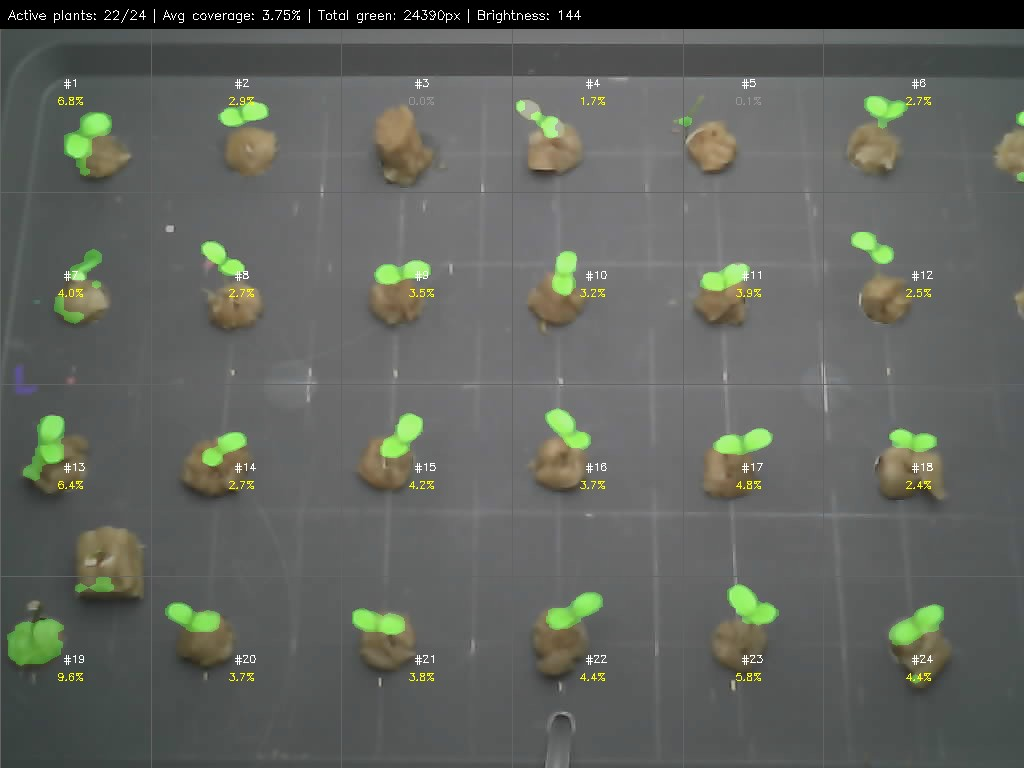
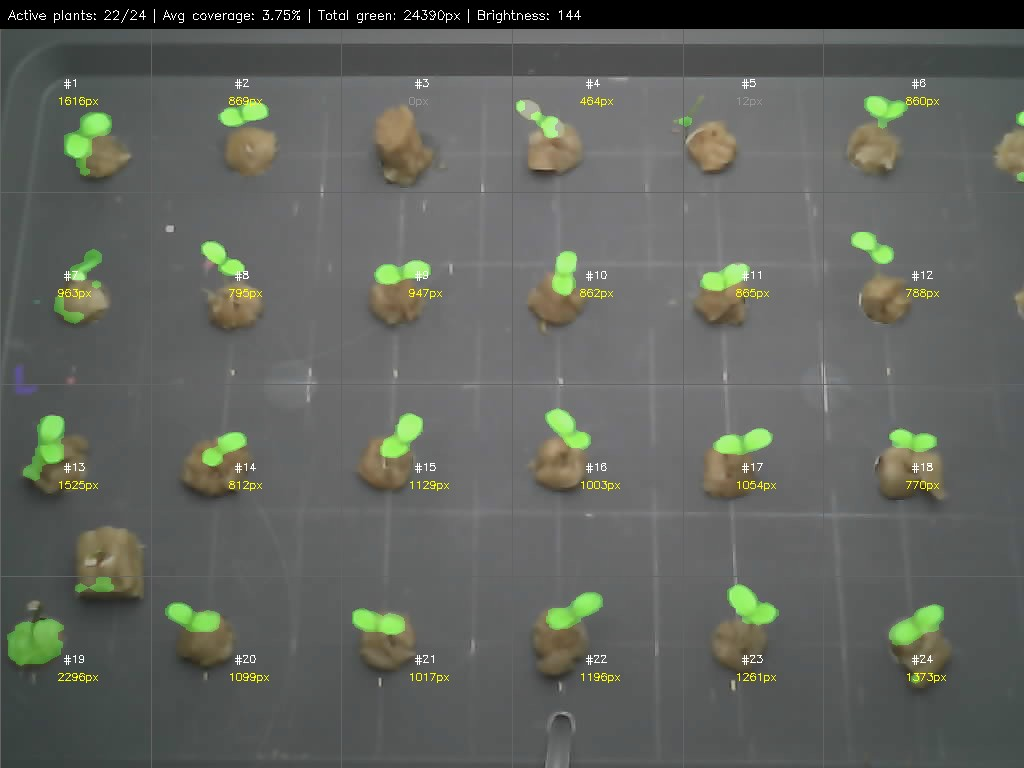
Show absolute green pixels in annotation instead of percentage

diff --git a/analyze.py b/analyze.py
@@ -197,12 +197,12 @@ def draw_annotated(img, mask, cells, measurements, stats):
         cy = (row_bounds[m["row"]] + row_bounds[m["row"] + 1]) // 2
 
         # Color code: white if low coverage, green if high
-        color = (0, 255, 255) if m["coverage_pct"] > 1.0 else (150, 150, 150)
+        color = (0, 255, 255) if m["green_pixels"] > 100 else (150, 150, 150)
 
         cv2.putText(out, f"#{m['id']}",
                     (cx - 12, cy - 10),
                     cv2.FONT_HERSHEY_SIMPLEX, 0.35, (255, 255, 255), 1)
-        cv2.putText(out, f"{m['coverage_pct']:.1f}%",
+        cv2.putText(out, f"{m['green_pixels']}px",
                     (cx - 18, cy + 8),
                     cv2.FONT_HERSHEY_SIMPLEX, 0.35, color, 1)
 
